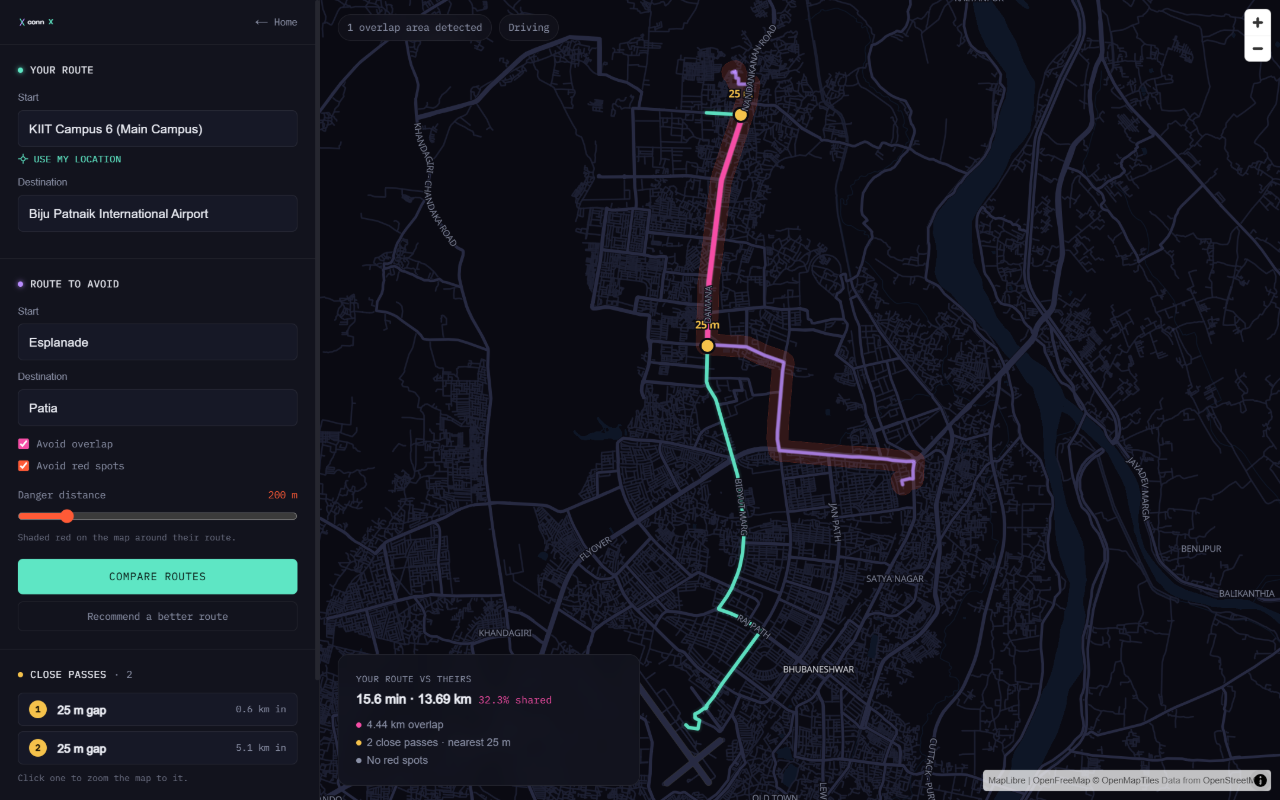
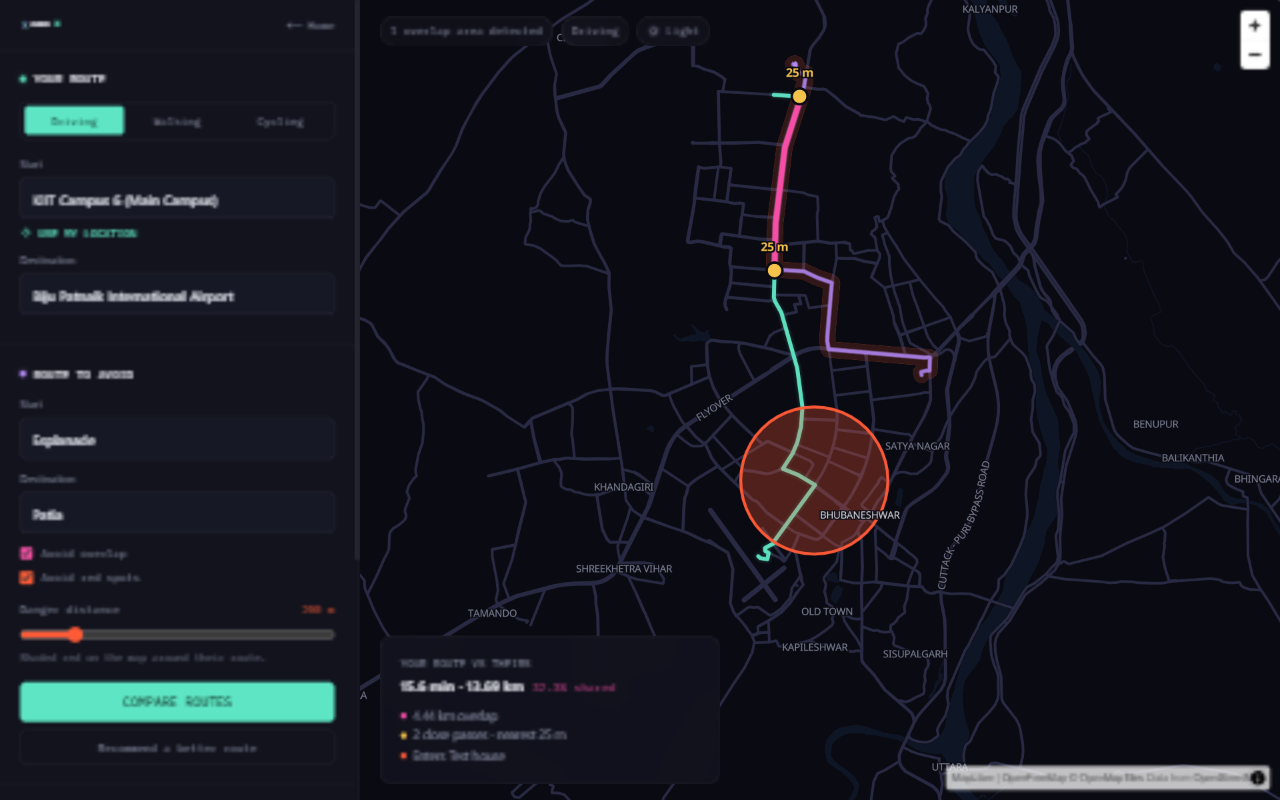
Final pass: travel mode picker, no-results state, fit padding for result card, README screenshots and setup

diff --git a/frontend/app/planner/page.tsx b/frontend/app/planner/page.tsx
@@ -49,6 +49,8 @@ const MapView = dynamic(() => import("@/components/MapView"), {
 
 type Endpoint = { label: string; point: LonLat | null };
 
+const TRAVEL_MODES: TravelMode[] = ["driving", "walking", "cycling"];
+
 export default function PlannerPage() {
   const { theme, toggle: toggleTheme } = useTheme();
   const [primaryStart, setPrimaryStart] = useState<Endpoint>({ label: "", point: null });
@@ -68,7 +70,7 @@ export default function PlannerPage() {
     setMapCenter(point);
   }
 
-  const [mode] = useState<TravelMode>("driving");
+  const [mode, setMode] = useState<TravelMode>("driving");
   // How close Route B may come before it counts as too close; sets the width
   // of the red zone band. Not the overlap tolerance (that is fixed server-side).
   const [dangerDistance, setDangerDistance] = useState(DANGER_DISTANCE_DEFAULT_M);
@@ -159,6 +161,27 @@ export default function PlannerPage() {
           <div className="mb-3.5 flex items-center gap-2 font-mono text-[11px] uppercase tracking-wider">
             <span className="h-1.5 w-1.5 rounded-full bg-route-a shadow-[0_0_6px_rgb(var(--c-route-a))]" />
             Your route
+          </div>
+          <div role="radiogroup" aria-label="Travel mode" className="mb-4 grid grid-cols-3 gap-1 rounded-md border border-border p-1 font-mono text-[11px]">
+            {TRAVEL_MODES.map((m) => (
+              <button
+                key={m}
+                type="button"
+                role="radio"
+                aria-checked={mode === m}
+                onClick={() => {
+                  if (m !== mode) {
+                    setMode(m);
+                    results.reset();
+                  }
+                }}
+                className={`rounded px-2 py-1.5 capitalize transition-colors ${
+                  mode === m ? "bg-accent text-on-accent" : "text-ink-dim hover:text-ink"
+                }`}
+              >
+                {m}
+              </button>
+            ))}
           </div>
           <LocationField
             label="Start"

diff --git a/frontend/components/LocationField.tsx b/frontend/components/LocationField.tsx
@@ -38,6 +38,8 @@ export default function LocationField({
   const [activeIdx, setActiveIdx] = useState(-1);
   const [loading, setLoading] = useState(false);
   const [slow, setSlow] = useState(false);
+  // True once a search finished with nothing found, until the text changes again.
+  const [noMatches, setNoMatches] = useState(false);
   const [geoLoading, setGeoLoading] = useState(false);
   const [rect, setRect] = useState<DropdownPlacement | null>(null);
   const [mounted, setMounted] = useState(false);
@@ -66,6 +68,7 @@ export default function LocationField({
     const q = value.trim();
     if (lastPickedRef.current !== null && q === lastPickedRef.current.trim()) return;
     lastPickedRef.current = null;
+    setNoMatches(false);
 
     if (q.length < 2) {
       clearTimeout(debounceRef.current);
@@ -97,6 +100,7 @@ export default function LocationField({
         setResults(r);
         setActiveIdx(-1);
         setOpen(r.length > 0);
+        setNoMatches(r.length === 0);
       } catch (err) {
         if (timedOut || (!ctrl.signal.aborted && isSearchSlowError(err))) {
           // Quiet state, not an error: keep whatever the user was looking at.
@@ -269,6 +273,12 @@ export default function LocationField({
       {slow && !loading && (
         <p role="status" className="mt-1.5 font-mono text-[10.5px] text-ink-dim">
           Search is slow right now. Keep typing or try again in a moment.
+        </p>
+      )}
+
+      {noMatches && !loading && !slow && (
+        <p role="status" className="mt-1.5 font-mono text-[10.5px] text-ink-dim">
+          No places found. Try a different spelling or a nearby landmark.
         </p>
       )}
 

diff --git a/frontend/lib/usePlannerResults.ts b/frontend/lib/usePlannerResults.ts
@@ -117,6 +117,20 @@ export function usePlannerResults(inputs: PlannerInputs) {
     }
   }
 
+  /** Forget the current result (e.g. the travel mode changed, so it no longer applies). */
+  function reset() {
+    seq.current++;
+    last.current = null;
+    setView(null);
+    setComparison(null);
+    setRanking({ routes: [], selectedIndex: 0 });
+    setComparisonRoute(null);
+    setRedZoneBand(null);
+    setErrorMsg(null);
+    setPending(null);
+    setStatus(IDLE_STATUS);
+  }
+
   function request(kind: PlannerView) {
     const req = { ...inputs };
     last.current = { view: kind, inputs: req };
@@ -156,6 +170,7 @@ export function usePlannerResults(inputs: PlannerInputs) {
     loading: pending !== null,
     canCompare,
     canRecommend,
+    reset,
     compare: () => request("compare"),
     recommend: () => request("recommend"),
   };

diff --git a/frontend/components/MapView.tsx b/frontend/components/MapView.tsx
@@ -465,7 +465,7 @@ export default function MapView({
           [Math.min(...lons), Math.min(...lats)],
           [Math.max(...lons), Math.max(...lats)],
         ],
-        { padding: paddingFor(map, { top: 80, right: 80, bottom: 80, left: 80 }), duration: 800, maxZoom: 15 }
+        { padding: paddingFor(map, { top: 80, right: 80, bottom: isDesktopLayout() ? 300 : 80, left: 80 }), duration: 800, maxZoom: 15 }
       );
     }
   }

diff --git a/README.md b/README.md
@@ -1,5 +1,52 @@
 Connecting hearts, hearts so much bigger than maps.
 
+ConnX compares two trips and shows how much they overlap and where they come
+close. Pick a travel mode (driving, walking or cycling), enter your route and
+the route to avoid, then set a danger distance. The map shows both routes, the
+shared stretches, a red zone band around their route and a marker (with the
+gap in metres) wherever you pass within the danger distance. You can also draw
+red spots (circles Route A should stay out of) and ask for a recommended
+alternative.
+
+![Dark theme, driving comparison with a red spot hit](docs/screenshots/dark-driving.png)
+
+![Light theme](docs/screenshots/light-driving.png)
+
+On a phone the side panel becomes a bottom sheet:
+
+<img src="docs/screenshots/mobile-light-sheet.png" alt="Mobile layout" width="280">
+
+## Quick start (no Docker, no Postgres)
+
+```bash
+python -m venv .venv
+source .venv/bin/activate          # Windows: .venv\Scripts\activate
+pip install -r backend/requirements.txt
+cp backend/.env.example backend/.env   # SQLite by default; Windows: copy
+cd frontend && npm ci && cd ..
+python run_all.py                  # backend :8000, frontend :3000
+```
+
+Open http://localhost:3000. Routing and search use public fair-use servers
+(routing.openstreetmap.de, Photon, Nominatim), so you need an internet
+connection. Set `ROUTING_PROVIDER=mock` / `GEOCODING_PROVIDER=mock` in
+`backend/.env` to work offline with canned data.
+
+## Known issues
+
+- Public routing and geocoding servers have no SLA. When they are slow the app
+  shows "Search is slow right now" or a route error; try again.
+- The recommended route list often has a single entry in a small area, because
+  the public servers return few alternatives.
+- On a phone, the map is fitted while the bottom sheet is open, so the ends of
+  a long route can sit under the sheet or off the top. Collapse the sheet and
+  pan to see them.
+- Encounters right next to an overlap stretch (the approach and the exit of a
+  shared road) are still listed. Whether to hide them is an open design choice.
+- Docker (`docker compose up --build`) has not been re-run since the Photon and
+  per-mode routing changes.
+
+
 ## First-time setup
 
 Versions are pinned so everyone gets identical packages.
@@ -88,7 +135,8 @@ if something's wrong. For SQLite-only mode, make sure `backend/.env` contains:
 DATABASE_URL=sqlite:///./connx_dev.db
 ```
 
-(see `backend/.env.example`).
+(see `backend/.env.example`; copy it to `backend/.env` first, because the
+built-in default is Postgres).
 
 ## Collaborating across machines
 

diff --git a/docs/adr/0002-per-mode-osm-routing-servers.md b/docs/adr/0002-per-mode-osm-routing-servers.md
@@ -8,6 +8,8 @@ Status: accepted
 `router.project-osrm.org`. The public OSRM demo is believed to serve only the
 car profile regardless of the path profile, so walking and cycling likely
 return driving routes. This must be verified during implementation.
+Verified: an OSRM server bakes in one profile and ignores the profile segment of
+the URL, so the mode must be chosen by the server (base URL), not the path.
 
 ## Decision
 
